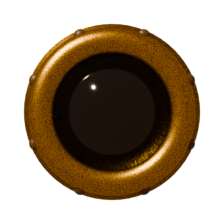
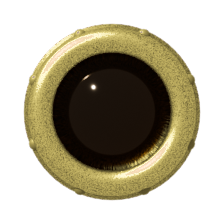
Версия 2026.11.07-130: пираты по критику r39 — чистые палубы, латунные иллюминаторы, светлее море у борта
«Зелёные миски» и «серые камешки» на палубах были мхом и гравием пола пещер — на полах построек они больше не рисуются
(у остальных карт россыпь на прежних местах). Иллюминаторы латунные (dev/tools/brass_sprite.py), море у борта светлее
и бирюзовее (L50 38 → 50, как у эталона), блики ярче.

Claude-Session: https://claude.ai/code/session_01JvXrYdG1XCH4i3GESsQzbh

Changed region(s): [[0.0938, 0.0938, 0.9062, 0.9062]]

diff --git a/js/themes.js b/js/themes.js
@@ -127,7 +127,7 @@ const THEMES = {
       { kind: 'islands', color: '#5c3161', fog: '#a45a74', base: 0.0, amp: 0.26, p: 0.2, trees: '#4a2550', treeKind: 'palm' },
     ],
     clouds: { n: 7, color: '#ffb38a', shade: '#b0567a', alpha: 0.85 },
-    liquid: { kind: 'water', top: '#3c7d7e', mid: '#185160', deep: '#092834', foam: '#fff4e0', alpha: 0.84, glint: '#ffcf8a', glintK: 1.6, rippleK: 1.5, sea: { band: 56, near: 2.6, px: 7, drift: 2.5, windK: 0.012, a0: 0.95, a1: 0.62, contrast: 1.15, mean: [43, 78, 71], glint0: 0.45, glintTint: [1, 0.68, 0.38], under: ['#1a7a86', '#0b5664', '#05303c'] /* v117 (критик r37: вода тёмно-синяя 22/33/42 и «мятая фольга»; эталон бирюзовый 31/53/57 с тёплыми бликами): зеленее — нижний край экрана тянет сине-лиловая цветокоррекция, спокойнее рябь, блики шире */ } },   /* v111 (r36: «σL 9,7, нет гребней»): полоса моря из Blender (render.js, drawSea) — band ед. высотой, у зрителя волны в near раз крупнее, px — пикселей текстуры на ед. у борта; under — толща под полосой (эталон 22/74/89 → 5/46/60). v102 (r35: «плоская бирюза», эталон у поверхности 26/46/51, золотые отблески): темнее, отблесков и ряби больше */
+    liquid: { kind: 'water', top: '#3c7d7e', mid: '#185160', deep: '#092834', foam: '#fff4e0', alpha: 0.84, glint: '#ffcf8a', glintK: 1.6, rippleK: 1.5, sea: { band: 56, near: 2.6, px: 7, drift: 2.5, windK: 0.012, a0: 0.95, a1: 0.62, contrast: 1.15, mean: [62, 108, 104], glint0: 0.75 /* v130 (критик r39: «вода у борта тёмная (33,45,46), L50 37 → (50,75,78), 50»): в кадре (43,61,63), L50 50; было mean [43, 78, 71], glint0 0,45 */, glintTint: [1, 0.68, 0.38], under: ['#1a7a86', '#0b5664', '#05303c'] /* v117 (критик r37: вода тёмно-синяя 22/33/42 и «мятая фольга»; эталон бирюзовый 31/53/57 с тёплыми бликами): зеленее — нижний край экрана тянет сине-лиловая цветокоррекция, спокойнее рябь, блики шире */ } },   /* v111 (r36: «σL 9,7, нет гребней»): полоса моря из Blender (render.js, drawSea) — band ед. высотой, у зрителя волны в near раз крупнее, px — пикселей текстуры на ед. у борта; under — толща под полосой (эталон 22/74/89 → 5/46/60). v102 (r35: «плоская бирюза», эталон у поверхности 26/46/51, золотые отблески): темнее, отблесков и ряби больше */
     ground: {
       cap: { cols: ['#93de58', '#5fb236', '#3d8426'], thick: 8, blades: ['#79cf45', '#5aae33', '#96e05c', '#4a9a2c'], flowers: ['#ff4f7b', '#ffcf3d', '#ff8a3d', '#ffffff'], beach: { cols: ['#fbe5a8', '#f0d08c', '#ddb56f'], range: 70 } },
       soil: '#a0703f', soilDepth: 30,

diff --git a/js/terrain_visual.js b/js/terrain_visual.js
@@ -2002,10 +2002,17 @@ function drawSurfaceDetails(T, theme, seed, waterY, tops, ceils, mat, backArr) {
     }
     // 2. Гравий и осыпи на полу пещер
     const cavePebs = ['#3e362e', '#4a4238', '#584e42', '#63594c', '#2c2620', '#6e6556'];
+    /* v130 (критик r39, пираты: «на палубах серые камешки и зелёные миски — у эталона палуба чистая»): на полах построек (кирпич,
+       доски, бетон, металл) гравий и мох не рисуются — рисунок уходит в пустой холст, числа rng тратятся как прежде (у остальных
+       карт всё на прежних местах) */
+    const NOCTX = { beginPath() {}, ellipse() {}, fill() {}, fillRect() {}, moveTo() {}, lineTo() {}, stroke() {} };
+    const builtFloor = (x, y) => { const fm = matAt(x, y + 1); return fm >= 3 && fm <= 6; };
+    const cx0 = c;
     for (let k = 0; k < tops.length; k += 2) {
       const x = tops[k], y = tops[k + 1];
       if (y > waterY - 4 || !isCaveFloor(x, y) || !flatTop(x, y)) continue;
       if (rng() < 0.045) {
+        const c = builtFloor(x, y) ? NOCTX : cx0;
         const grw = 1.2 + rng() * 2.8, grh = grw * (0.5 + rng() * 0.35);
         const col = rng.pick(cavePebs);
         c.fillStyle = 'rgba(10,8,6,0.35)';
@@ -2051,6 +2058,7 @@ function drawSurfaceDetails(T, theme, seed, waterY, tops, ceils, mat, backArr) {
       if (x < nextMossX || y > waterY - 4 || !isCaveFloor(x, y) || !flatTop(x, y)) continue;
       nextMossX = x + 18 + rng() * 36;
       if (rng() < 0.4) {
+        const c = builtFloor(x, y) ? NOCTX : cx0;
         const mw = 3 + rng() * 5, mh = 1.5 + rng() * 2;
         c.fillStyle = 'rgba(10,14,6,0.25)';
         c.beginPath(); c.ellipse(x, y + 1, mw * 1.1, mh * 0.5, 0, 0, TAU); c.fill();

diff --git a/index.html b/index.html
@@ -114,7 +114,7 @@
         </div>
       </div>
     </div>
-    <footer class="menu-footer"><span id="game-version">ВЕРСИЯ 2026.11.07-129</span><span>ПЛАНИРУЙ ХОД. МЕНЯЙ ЛАНДШАФТ.</span><span class="footer-status"><i></i> ГОТОВ К БОЮ</span></footer>
+    <footer class="menu-footer"><span id="game-version">ВЕРСИЯ 2026.11.07-130</span><span>ПЛАНИРУЙ ХОД. МЕНЯЙ ЛАНДШАФТ.</span><span class="footer-status"><i></i> ГОТОВ К БОЮ</span></footer>
   </section>
 
   <!-- Онлайн -->

diff --git a/dev/tools/brass_sprite.py b/dev/tools/brass_sprite.py
@@ -1,0 +1,55 @@
+"""Латунь вместо меди на спрайте Blender (критик r39, пираты: «иллюминаторы медные (142–145,85–89,25–32) — нужна латунь
+(170,135,74) с бликом 1–2 px до (250,235,170)»).
+
+python dev/tools/brass_sprite.py porthole1 [--mid 0.6] [--glass 0.47]
+
+- подробная версия assets/tex/surface/<имя>.png; исходник сохраняется один раз в dev/tex-backup/<имя>_surface_precolor.png и
+  дальше берётся оттуда (повторный запуск не копит сдвиг);
+- металл — тёплые насыщенные пиксели (R > 1,5·B, альфа > 0,5); их цвет — по яркости из шкалы латуни: тень (30,22,8) →
+  середина (184,168,92) на доле mid от 95-го процентиля яркости металла → (222,206,126) → блик (246,236,178) у верхних 5 %
+  (с поправкой на закатный свет карты — на экране латунь ≈ (165,128,72));
+  стекло (ближе glass к центру, доля радиуса), болты в тени и прозрачность прежние; кромка металла смешивается мягко (по насыщенности);
+- малая версия assets/tex/<имя>.png — уменьшение ×4 с учётом прозрачности.
+"""
+import argparse
+import shutil
+from pathlib import Path
+
+import numpy as np
+from PIL import Image
+
+ROOT = Path(__file__).resolve().parent.parent.parent
+Y = np.array([0.299, 0.587, 0.114], np.float32)
+
+
+def main():
+    ap = argparse.ArgumentParser()
+    ap.add_argument('name'); ap.add_argument('--mid', type=float, default=0.6); ap.add_argument('--glass', type=float, default=0.47); ap.add_argument('--small', type=int, default=4)
+    a = ap.parse_args()
+    hi = ROOT / 'assets/tex/surface' / (a.name + '.png'); bak = ROOT / 'dev/tex-backup' / (a.name + '_surface_precolor.png')
+    if not bak.exists(): bak.parent.mkdir(parents=True, exist_ok=True); shutil.copy(hi, bak)
+    im = np.asarray(Image.open(bak).convert('RGBA'), dtype=np.float32)
+    rgb, al = im[..., :3], im[..., 3] / 255
+    L = rgb @ Y; r, b = rgb[..., 0], rgb[..., 2]
+    H_, W_ = L.shape; yy, xx = np.mgrid[0:H_, 0:W_]; rad = np.hypot(xx - (W_ - 1) / 2, yy - (H_ - 1) / 2) / (W_ / 2)
+    warm = np.clip((r / np.maximum(b, 1) - 1.3) / 0.6, 0, 1) * (al > 0.5) * np.clip((L - 8) / 10, 0, 1) * np.clip((rad - a.glass) / 0.03, 0, 1)   # стекло (r < glass) не трогать
+    q95 = np.percentile(L[warm > 0.5], 95); t = L / q95
+    # шкала — с поправкой на закатный свет карты (в кадре R ×0,89, G ×0,74, B ×0,76): на экране середина ≈ (165,128,72)
+    stops = [(0.0, (34, 28, 12)), (a.mid, (184, 168, 92)), (0.88, (222, 206, 126)), (1.0, (246, 236, 178)), (1.3, (255, 250, 215))]
+    ts = np.array([s[0] for s in stops], np.float32); cs = np.array([s[1] for s in stops], np.float32)
+    brass = np.stack([np.interp(t, ts, cs[:, k]) for k in range(3)], -1)
+    out = rgb * (1 - warm[..., None]) + brass * warm[..., None]
+    res = np.concatenate([np.clip(out, 0, 255), im[..., 3:4]], -1)
+    Image.fromarray(res.round().astype(np.uint8), 'RGBA').save(hi)
+    F = a.small; h, w = res.shape[0] // F, res.shape[1] // F
+    pre = res[:h * F, :w * F].copy(); pre[..., :3] *= pre[..., 3:4] / 255
+    lo = pre.reshape(h, F, w, F, 4).mean((1, 3)); A = lo[..., 3:4]
+    lo[..., :3] = np.where(A > 0.5, lo[..., :3] / np.maximum(A, 1e-3) * 255, 0)
+    Image.fromarray(np.clip(lo, 0, 255).round().astype(np.uint8), 'RGBA').save(ROOT / 'assets/tex' / (a.name + '.png'))
+    m = warm > 0.5
+    print('%s: металл %d px, цвет %s → %s, L95 %.0f → %.0f' % (a.name, int(m.sum()), rgb[m].mean(0).round(), out[m].mean(0).round(),
+          np.percentile(L[m], 95), np.percentile((out @ Y)[m], 95)))
+
+
+if __name__ == '__main__':
+    main()
